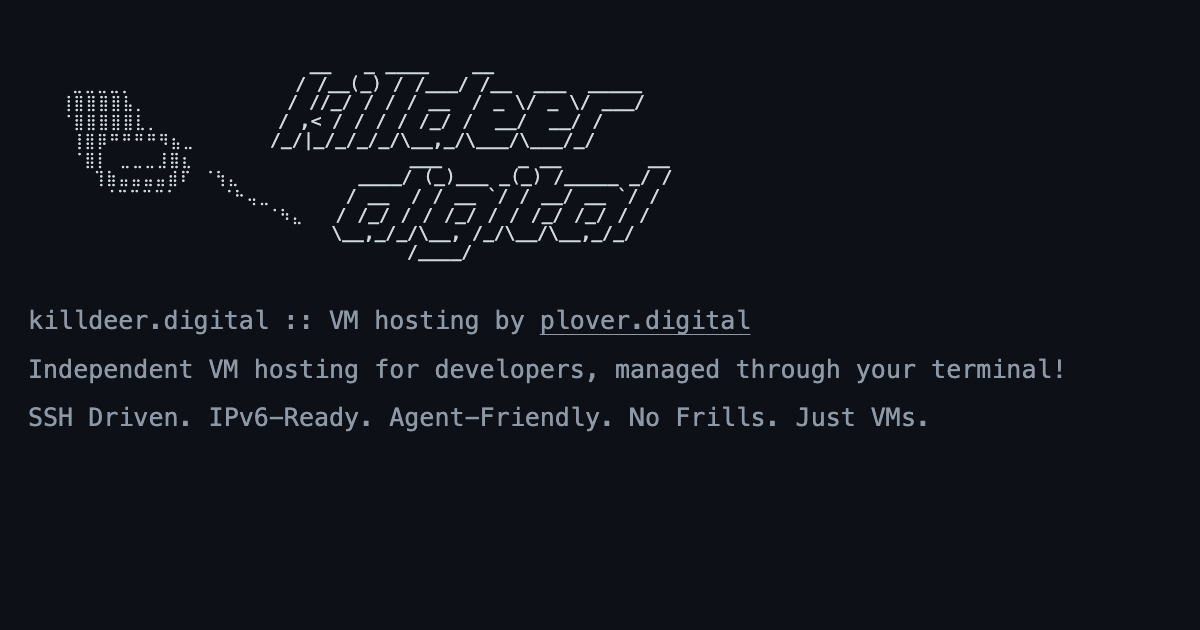
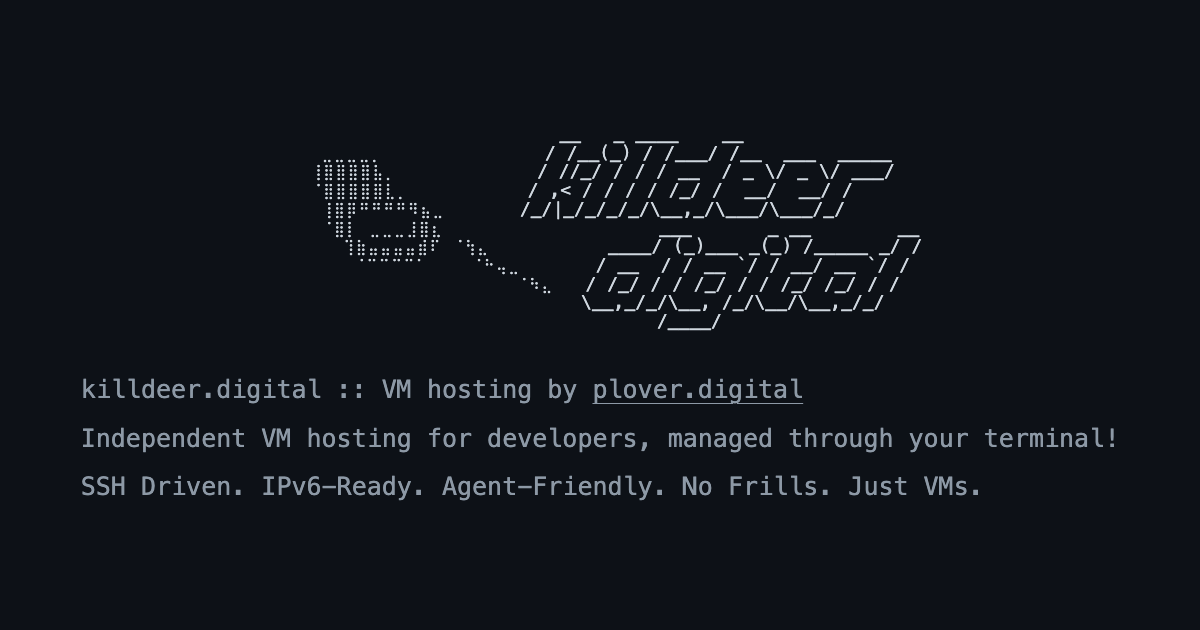
Center social preview card

diff --git a/static/social-card.html b/static/social-card.html
@@ -29,9 +29,10 @@
     }
 
     body {
-      display: grid;
-      align-content: start;
-      padding: 56px 28px;
+      display: flex;
+      align-items: center;
+      justify-content: center;
+      padding: 0 28px;
       border-bottom: 1px solid var(--line);
     }
 
@@ -42,10 +43,11 @@
     }
 
     .hero-composite {
-      margin: 0;
+      margin: 0 auto;
       white-space: pre;
       line-height: 1.04;
       font-size: 18px;
+      width: max-content;
     }
 
     .hero-note {

diff --git a/static/index.html b/static/index.html
@@ -15,7 +15,7 @@
   <meta property="og:title" content="killdeer.digital">
   <meta
     property="og:description"
-    content="Managed VM hosting over SSH for Plover.digital infrastructure, with public docs for humans and AI agents."
+    content="Managed VM hosting over SSH from Plover.digital, with public docs for humans and AI agents."
   >
   <meta property="og:image" content="https://killdeer.digital/social-card.png">
   <meta property="og:image:secure_url" content="https://killdeer.digital/social-card.png">
@@ -27,7 +27,7 @@
   <meta name="twitter:title" content="killdeer.digital">
   <meta
     name="twitter:description"
-    content="Managed VM hosting over SSH for Plover.digital infrastructure, with public docs for humans and AI agents."
+    content="Managed VM hosting over SSH from Plover.digital, with public docs for humans and AI agents."
   >
   <meta name="twitter:image" content="https://killdeer.digital/social-card.png">
   <meta name="twitter:image:alt" content="killdeer.digital managed VM hosting over SSH">